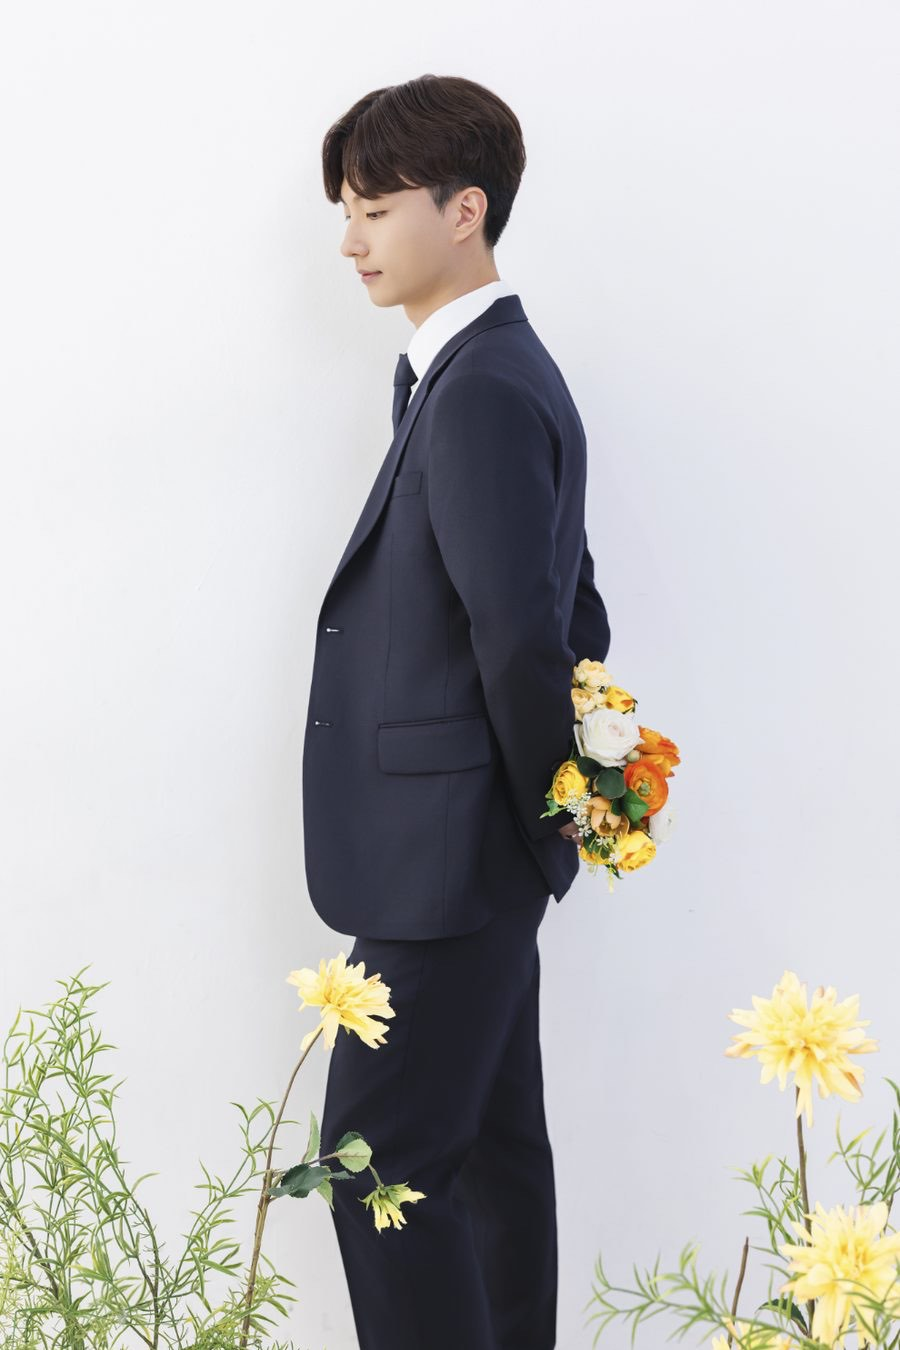
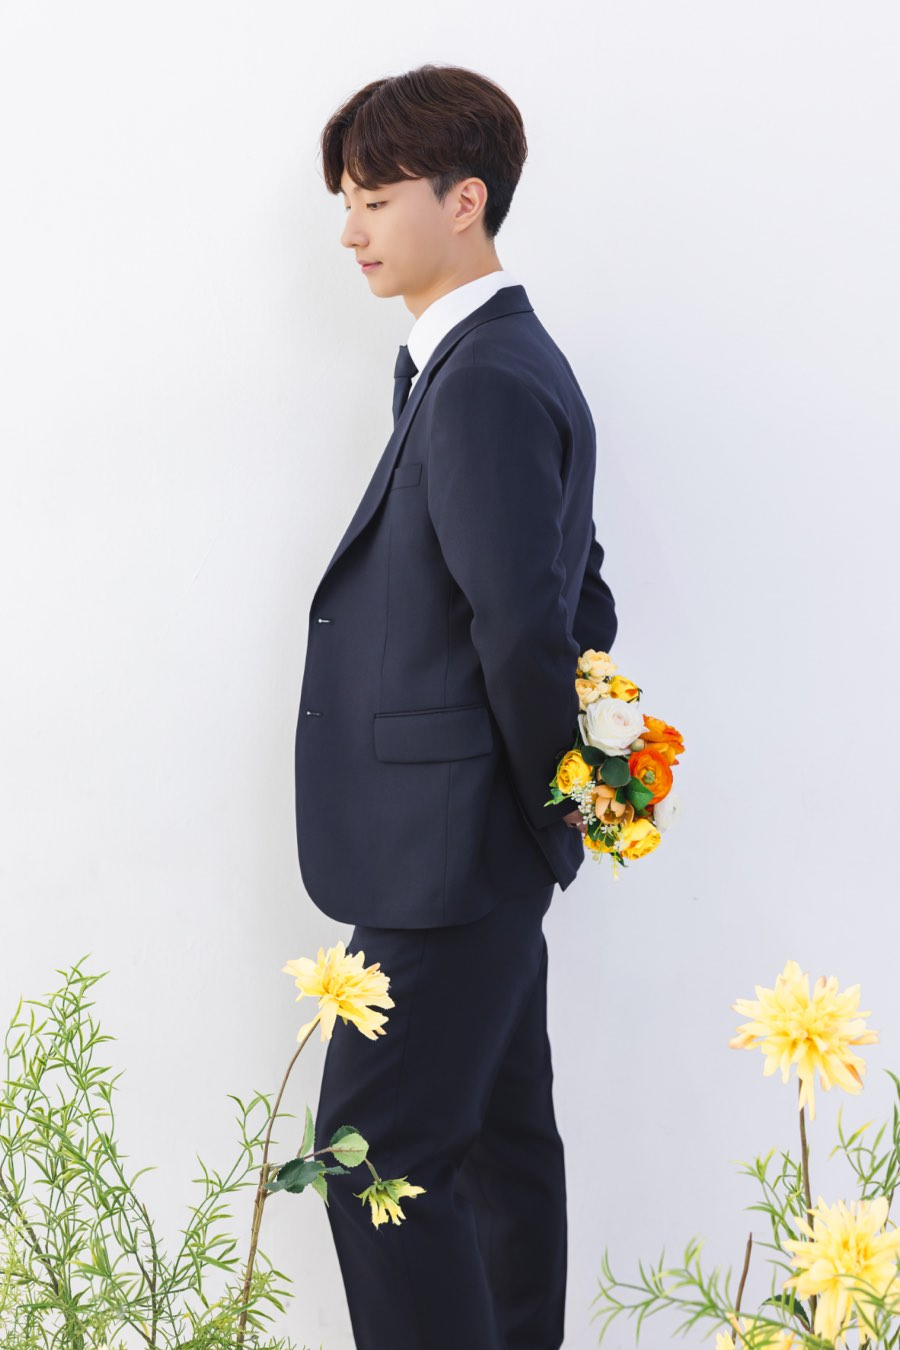
13번 사진(옐로 플라워 신랑)을 새 보정본으로 교체
같은 옆모습 컷의 더 깨끗한 보정본입니다. 1042x1568 (0.6645) -> 900x1350
으로 잘라 나머지와 같은 2:3 (0.66667) 에 맞췄습니다.

원본이 2:3 보다 좁아 높이만 5px 깎였고, 가로는 전폭이라 좌우 이동
없이 얼굴 기준으로 세로 위치만 잡았습니다.

파일명이 그대로라 캐시 버전을 ?v=15 -> ?v=16 으로 올렸습니다.

확인: 19장 비율 전부 0.66667(+가로 1장), 썸네일<->원본 19쌍 픽셀 대조
전부 일치, 캐시 없는 프로필에서 로드 실패 0건 / 버전 누락 0건,
13번 탭 -> g13.jpg "13 / 19" (900x1350).

Assisted-by: Claude Code (Opus 5)

diff --git a/index.html b/index.html
@@ -10,7 +10,7 @@
 <meta property="og:title" content="이수영 ♥ 이정은 결혼합니다">
 <meta property="og:description" content="2026년 12월 12일 토요일 오후 4시, 세인트메리엘 1층 메리엘홀">
 <meta property="og:url" content="https://suyoung-lee.github.io/wedding/">
-<meta property="og:image" content="https://suyoung-lee.github.io/wedding/assets/og.jpg?v=15">
+<meta property="og:image" content="https://suyoung-lee.github.io/wedding/assets/og.jpg?v=16">
 <meta name="description" content="2026년 12월 12일 토요일 오후 4시, 세인트메리엘 1층 메리엘홀">
 <meta name="theme-color" content="#fbfaf7">
 
@@ -283,7 +283,7 @@
   <!-- ══════════ 표지 ══════════ -->
   <header class="cover">
     <div class="photo noSave">
-      <img src="assets/cover.jpg?v=15" alt="신랑 이수영, 신부 이정은" draggable="false">
+      <img src="assets/cover.jpg?v=16" alt="신랑 이수영, 신부 이정은" draggable="false">
     </div>
     <div class="fade"></div>
     <div class="frame"></div>
@@ -354,25 +354,25 @@
   <section>
     <p class="label">Gallery</p>
     <div class="grid collapsed noSave" id="grid">
-      <button class="ph wide" type="button" data-full="assets/g01.jpg?v=15" aria-label="웨딩 사진 1번, 크게 보기"><img src="assets/wide.jpg?v=15" alt="" loading="lazy"></button>
-      <button class="ph" type="button" data-full="assets/g02.jpg?v=15" aria-label="웨딩 사진 2번, 크게 보기"><img src="assets/t02.jpg?v=15" alt="" loading="lazy"></button>
-      <button class="ph" type="button" data-full="assets/g03.jpg?v=15" aria-label="웨딩 사진 3번, 크게 보기"><img src="assets/t03.jpg?v=15" alt="" loading="lazy"></button>
-      <button class="ph" type="button" data-full="assets/g04.jpg?v=15" aria-label="웨딩 사진 4번, 크게 보기"><img src="assets/t04.jpg?v=15" alt="" loading="lazy"></button>
-      <button class="ph" type="button" data-full="assets/g05.jpg?v=15" aria-label="웨딩 사진 5번, 크게 보기"><img src="assets/t05.jpg?v=15" alt="" loading="lazy"></button>
-      <button class="ph" type="button" data-full="assets/g06.jpg?v=15" aria-label="웨딩 사진 6번, 크게 보기"><img src="assets/t06.jpg?v=15" alt="" loading="lazy"></button>
-      <button class="ph" type="button" data-full="assets/g07.jpg?v=15" aria-label="웨딩 사진 7번, 크게 보기"><img src="assets/t07.jpg?v=15" alt="" loading="lazy"></button>
-      <button class="ph" type="button" data-full="assets/g08.jpg?v=15" aria-label="웨딩 사진 8번, 크게 보기"><img src="assets/t08.jpg?v=15" alt="" loading="lazy"></button>
-      <button class="ph" type="button" data-full="assets/g09.jpg?v=15" aria-label="웨딩 사진 9번, 크게 보기"><img src="assets/t09.jpg?v=15" alt="" loading="lazy"></button>
-      <button class="ph" type="button" data-full="assets/g10.jpg?v=15" aria-label="웨딩 사진 10번, 크게 보기"><img src="assets/t10.jpg?v=15" alt="" loading="lazy"></button>
-      <button class="ph" type="button" data-full="assets/g11.jpg?v=15" aria-label="웨딩 사진 11번, 크게 보기"><img src="assets/t11.jpg?v=15" alt="" loading="lazy"></button>
-      <button class="ph" type="button" data-full="assets/g12.jpg?v=15" aria-label="웨딩 사진 12번, 크게 보기"><img src="assets/t12.jpg?v=15" alt="" loading="lazy"></button>
-      <button class="ph" type="button" data-full="assets/g13.jpg?v=15" aria-label="웨딩 사진 13번, 크게 보기"><img src="assets/t13.jpg?v=15" alt="" loading="lazy"></button>
-      <button class="ph" type="button" data-full="assets/g14.jpg?v=15" aria-label="웨딩 사진 14번, 크게 보기"><img src="assets/t14.jpg?v=15" alt="" loading="lazy"></button>
-      <button class="ph" type="button" data-full="assets/g15.jpg?v=15" aria-label="웨딩 사진 15번, 크게 보기"><img src="assets/t15.jpg?v=15" alt="" loading="lazy"></button>
-      <button class="ph" type="button" data-full="assets/g16.jpg?v=15" aria-label="웨딩 사진 16번, 크게 보기"><img src="assets/t16.jpg?v=15" alt="" loading="lazy"></button>
-      <button class="ph" type="button" data-full="assets/g17.jpg?v=15" aria-label="웨딩 사진 17번, 크게 보기"><img src="assets/t17.jpg?v=15" alt="" loading="lazy"></button>
-      <button class="ph" type="button" data-full="assets/g18.jpg?v=15" aria-label="웨딩 사진 18번, 크게 보기"><img src="assets/t18.jpg?v=15" alt="" loading="lazy"></button>
-      <button class="ph" type="button" data-full="assets/g19.jpg?v=15" aria-label="웨딩 사진 19번, 크게 보기"><img src="assets/t19.jpg?v=15" alt="" loading="lazy"></button>
+      <button class="ph wide" type="button" data-full="assets/g01.jpg?v=16" aria-label="웨딩 사진 1번, 크게 보기"><img src="assets/wide.jpg?v=16" alt="" loading="lazy"></button>
+      <button class="ph" type="button" data-full="assets/g02.jpg?v=16" aria-label="웨딩 사진 2번, 크게 보기"><img src="assets/t02.jpg?v=16" alt="" loading="lazy"></button>
+      <button class="ph" type="button" data-full="assets/g03.jpg?v=16" aria-label="웨딩 사진 3번, 크게 보기"><img src="assets/t03.jpg?v=16" alt="" loading="lazy"></button>
+      <button class="ph" type="button" data-full="assets/g04.jpg?v=16" aria-label="웨딩 사진 4번, 크게 보기"><img src="assets/t04.jpg?v=16" alt="" loading="lazy"></button>
+      <button class="ph" type="button" data-full="assets/g05.jpg?v=16" aria-label="웨딩 사진 5번, 크게 보기"><img src="assets/t05.jpg?v=16" alt="" loading="lazy"></button>
+      <button class="ph" type="button" data-full="assets/g06.jpg?v=16" aria-label="웨딩 사진 6번, 크게 보기"><img src="assets/t06.jpg?v=16" alt="" loading="lazy"></button>
+      <button class="ph" type="button" data-full="assets/g07.jpg?v=16" aria-label="웨딩 사진 7번, 크게 보기"><img src="assets/t07.jpg?v=16" alt="" loading="lazy"></button>
+      <button class="ph" type="button" data-full="assets/g08.jpg?v=16" aria-label="웨딩 사진 8번, 크게 보기"><img src="assets/t08.jpg?v=16" alt="" loading="lazy"></button>
+      <button class="ph" type="button" data-full="assets/g09.jpg?v=16" aria-label="웨딩 사진 9번, 크게 보기"><img src="assets/t09.jpg?v=16" alt="" loading="lazy"></button>
+      <button class="ph" type="button" data-full="assets/g10.jpg?v=16" aria-label="웨딩 사진 10번, 크게 보기"><img src="assets/t10.jpg?v=16" alt="" loading="lazy"></button>
+      <button class="ph" type="button" data-full="assets/g11.jpg?v=16" aria-label="웨딩 사진 11번, 크게 보기"><img src="assets/t11.jpg?v=16" alt="" loading="lazy"></button>
+      <button class="ph" type="button" data-full="assets/g12.jpg?v=16" aria-label="웨딩 사진 12번, 크게 보기"><img src="assets/t12.jpg?v=16" alt="" loading="lazy"></button>
+      <button class="ph" type="button" data-full="assets/g13.jpg?v=16" aria-label="웨딩 사진 13번, 크게 보기"><img src="assets/t13.jpg?v=16" alt="" loading="lazy"></button>
+      <button class="ph" type="button" data-full="assets/g14.jpg?v=16" aria-label="웨딩 사진 14번, 크게 보기"><img src="assets/t14.jpg?v=16" alt="" loading="lazy"></button>
+      <button class="ph" type="button" data-full="assets/g15.jpg?v=16" aria-label="웨딩 사진 15번, 크게 보기"><img src="assets/t15.jpg?v=16" alt="" loading="lazy"></button>
+      <button class="ph" type="button" data-full="assets/g16.jpg?v=16" aria-label="웨딩 사진 16번, 크게 보기"><img src="assets/t16.jpg?v=16" alt="" loading="lazy"></button>
+      <button class="ph" type="button" data-full="assets/g17.jpg?v=16" aria-label="웨딩 사진 17번, 크게 보기"><img src="assets/t17.jpg?v=16" alt="" loading="lazy"></button>
+      <button class="ph" type="button" data-full="assets/g18.jpg?v=16" aria-label="웨딩 사진 18번, 크게 보기"><img src="assets/t18.jpg?v=16" alt="" loading="lazy"></button>
+      <button class="ph" type="button" data-full="assets/g19.jpg?v=16" aria-label="웨딩 사진 19번, 크게 보기"><img src="assets/t19.jpg?v=16" alt="" loading="lazy"></button>
     </div>
     <button class="more" type="button" id="more">사진 더보기<span class="chev" aria-hidden="true"></span></button>
   </section>
@@ -385,8 +385,8 @@
     <h2>세인트메리엘</h2>
     <p class="sub">1층 메리엘홀</p>
 
-    <a class="mapWrap noSave" href="assets/map-full.png?v=15" target="_blank" rel="noopener">
-      <img src="assets/map.png?v=15" alt="세인트메리엘 약도" loading="lazy" draggable="false">
+    <a class="mapWrap noSave" href="assets/map-full.png?v=16" target="_blank" rel="noopener">
+      <img src="assets/map.png?v=16" alt="세인트메리엘 약도" loading="lazy" draggable="false">
     </a>
     <p class="mapHint">약도를 누르면 크게 볼 수 있습니다</p>
 

diff --git a/build_assets.py b/build_assets.py
@@ -18,8 +18,8 @@ OUT = "assets"
 # index.html 의 이미지 URL 뒤 ?v=N 캐시 버전. 파일명을 그대로 두고 사진 내용만
 # 바꾸면 이미 청첩장을 열어본 브라우저가 캐시된 옛 사진을 계속 보여줍니다
 # (썸네일만 바뀌고 뷰어는 옛 사진이 뜨는 식). 사진을 갈아끼울 때마다 올리세요.
-#   sed -i '' 's/?v=[0-9]*/?v=16/g' index.html
-ASSET_V = 15
+#   sed -i '' 's/?v=[0-9]*/?v=17/g' index.html
+ASSET_V = 16
 os.makedirs(OUT, exist_ok=True)
 
 A = lambda n: os.path.join(SRC, f"KakaoTalk_20260909_203020487{n}.png")
@@ -49,7 +49,7 @@ ORDER = [
     (os.path.join(SRC, "KakaoTalk_20260909_213739064.png"), "화이트 스튜디오 - 레드 부케"),
     # 옐로 플라워
     (N("D_옐로플라워두사람"), "옐로 플라워 - 두 사람"),
-    (A("_11"), "옐로 플라워 - 신랑"),
+    (N("P_옐로플라워신랑"), "옐로 플라워 - 신랑"),
     # 가든
     # ※ I_가든소파두사람.png 는 넘겨받은 원본(980x1496)에서 오른쪽 100px 을
     #    미리 덜어낸 파일입니다. 원본은 2:3 보다 좁아서 가로 여유가 0 이라,
@@ -84,7 +84,7 @@ FACE = [
     (0.479, 0.400),   # 10 아이보리 신부
     (0.750, 0.188),   # 11 레드 부케
     (0.520, 0.319),   # 12 옐로 두 사람
-    (0.423, 0.176),   # 13 옐로 신랑
+    (0.425, 0.169),   # 13 옐로 신랑
     (0.582, 0.177),   # 14 가든 두 사람 (오른쪽 100px 덜어낸 원본 기준)
     (0.504, 0.263),   # 15 가든 소파 신부 (두 사람 컷 사이에 끼움)
     (0.516, 0.513),   # 16 그린월 두 사람 (인물이 아래쪽이라 세로 중심이 낮음)
